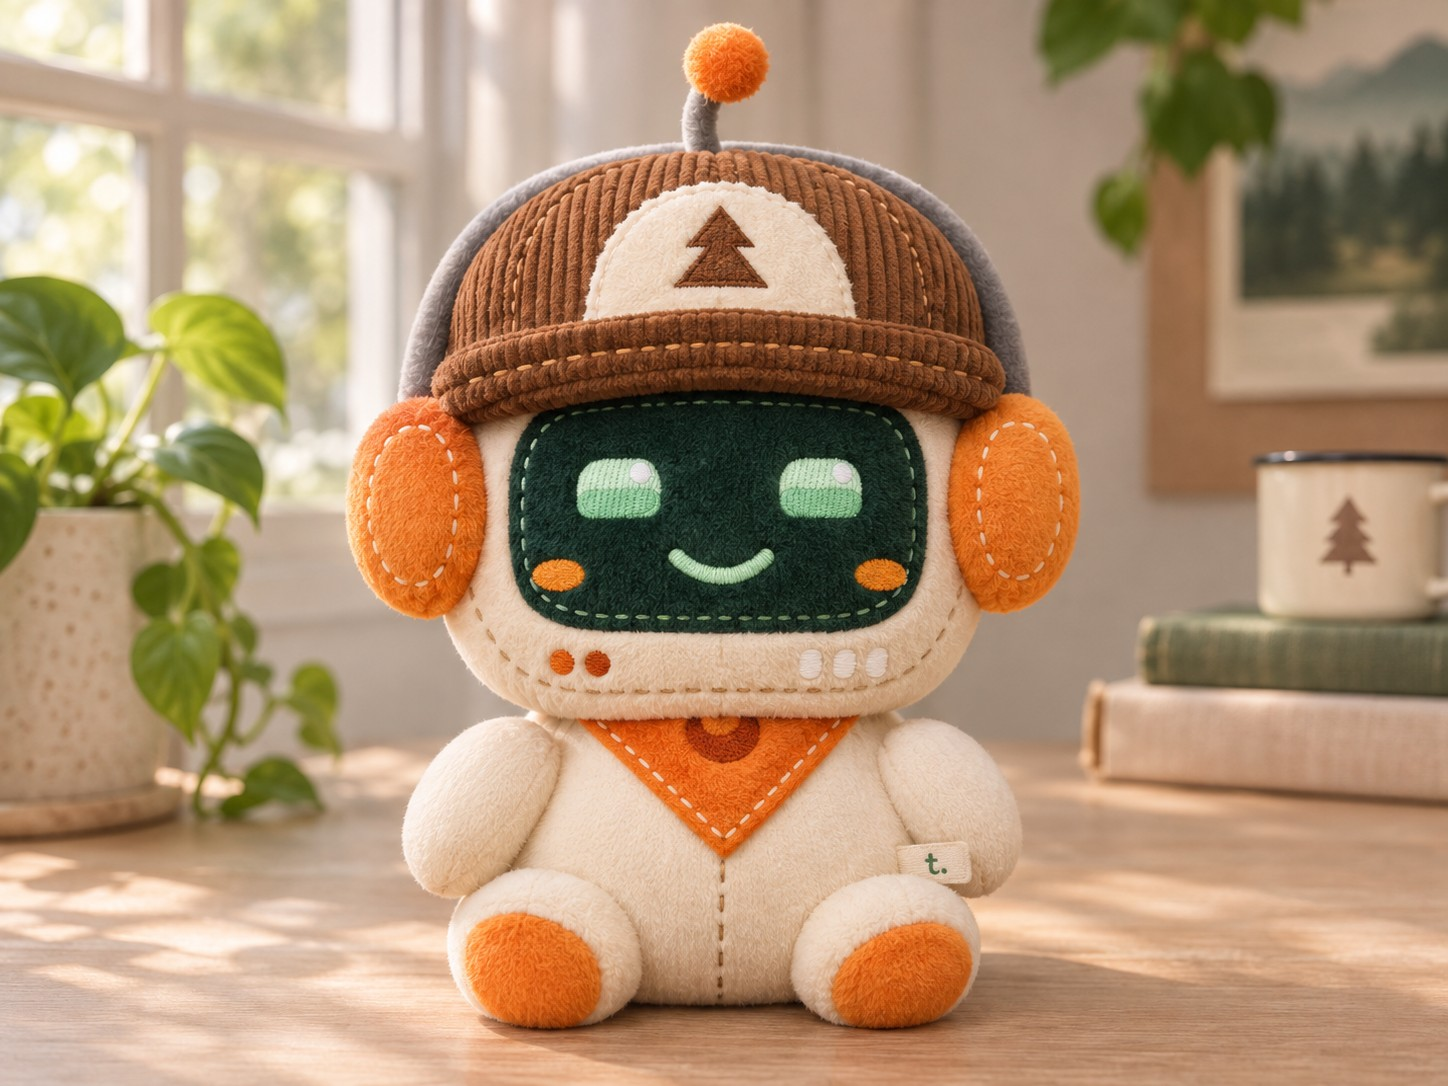
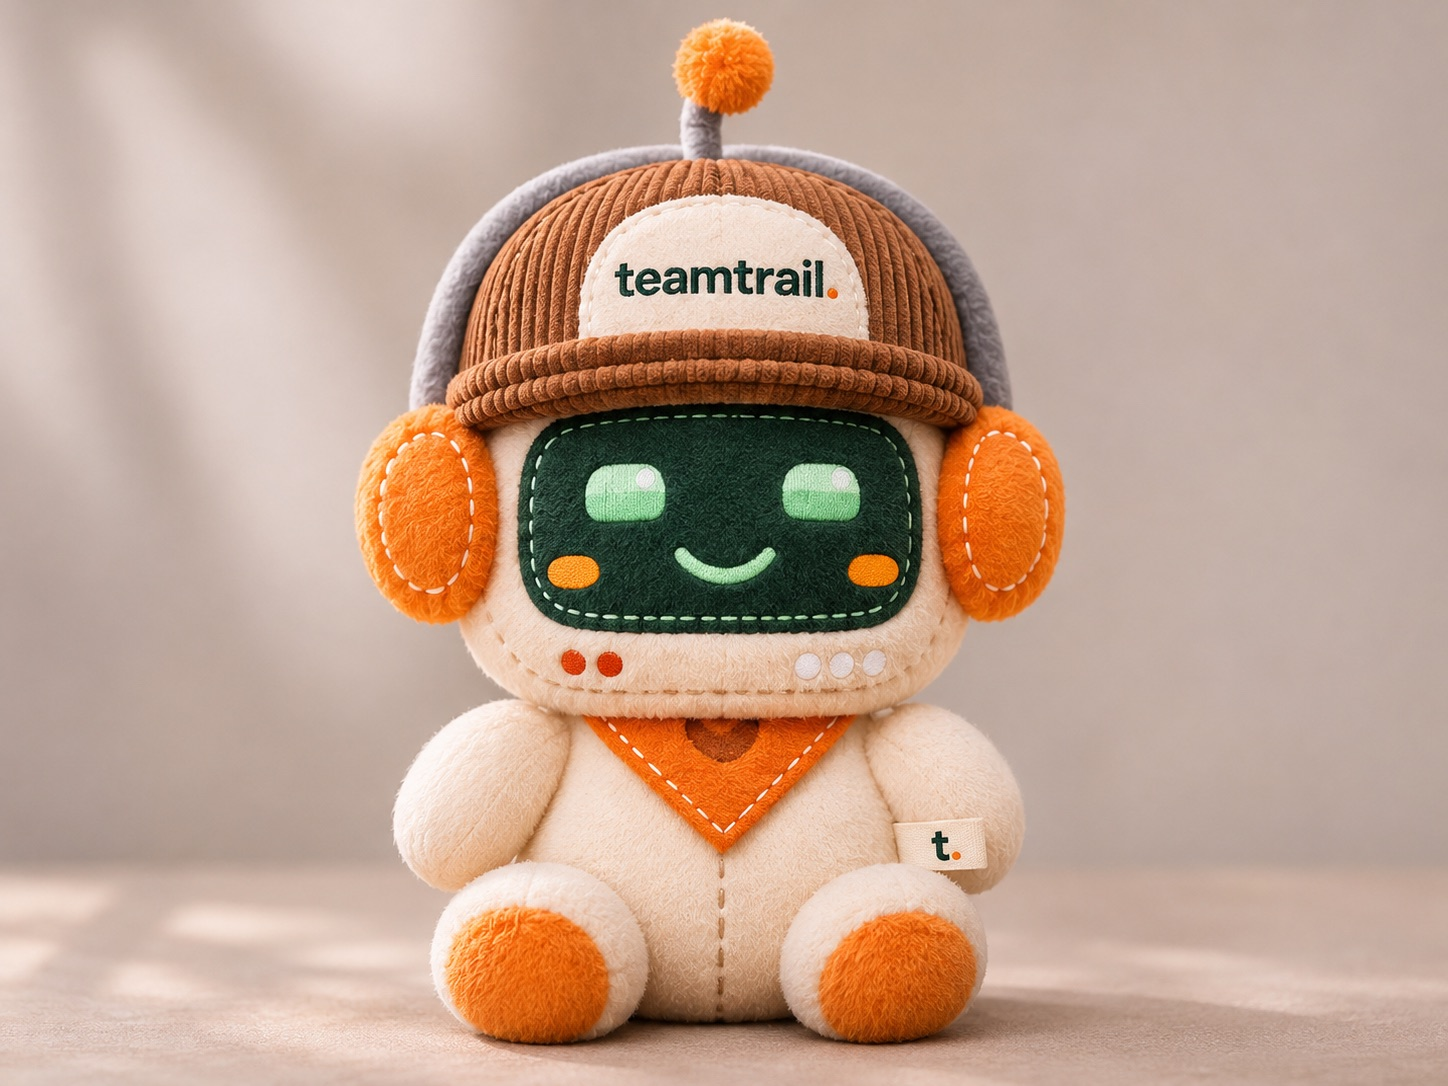
Scout page: the new plush photo (#60)

diff --git a/scout/index.html b/scout/index.html
@@ -86,7 +86,7 @@
               width="1448"
               height="1086"
               loading="lazy"
-              alt="Scout as a plush toy sitting on a wooden desk: a cream robot with a dark green screen face, a brown corduroy cap with a pine tree, orange headphones and an orange neckerchief."
+              alt="Scout as a plush toy: a cream robot with a smiling dark green screen face, a brown corduroy cap with the teamtrail wordmark and a pom-pom antenna, orange headphones, an orange neckerchief and a t. tag on its arm."
             />
             <figcaption>The design. Each handmade Scout may differ a little.</figcaption>
           </figure>
